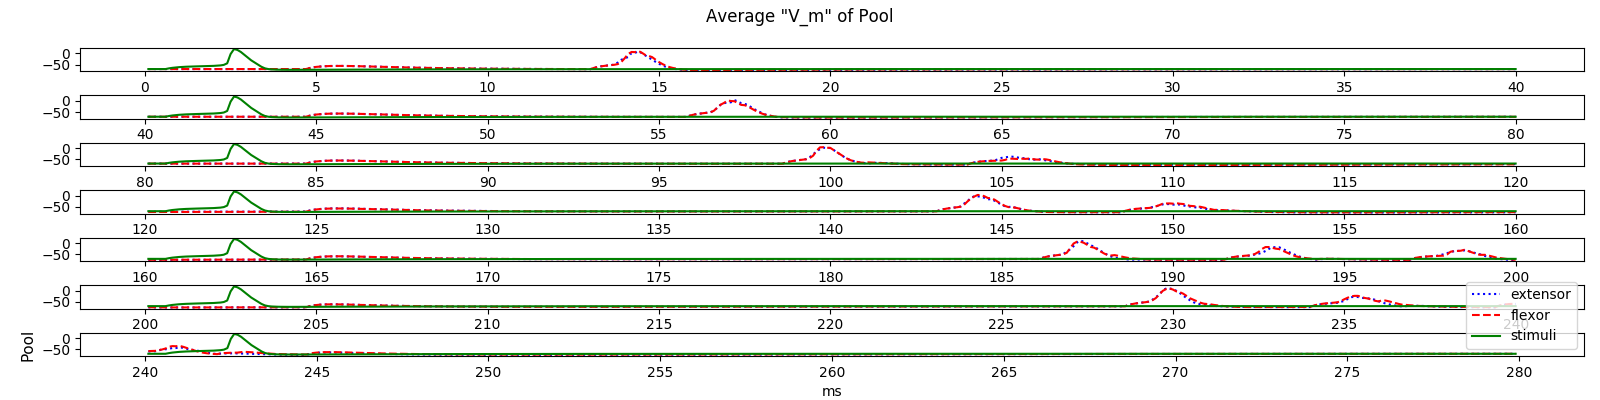
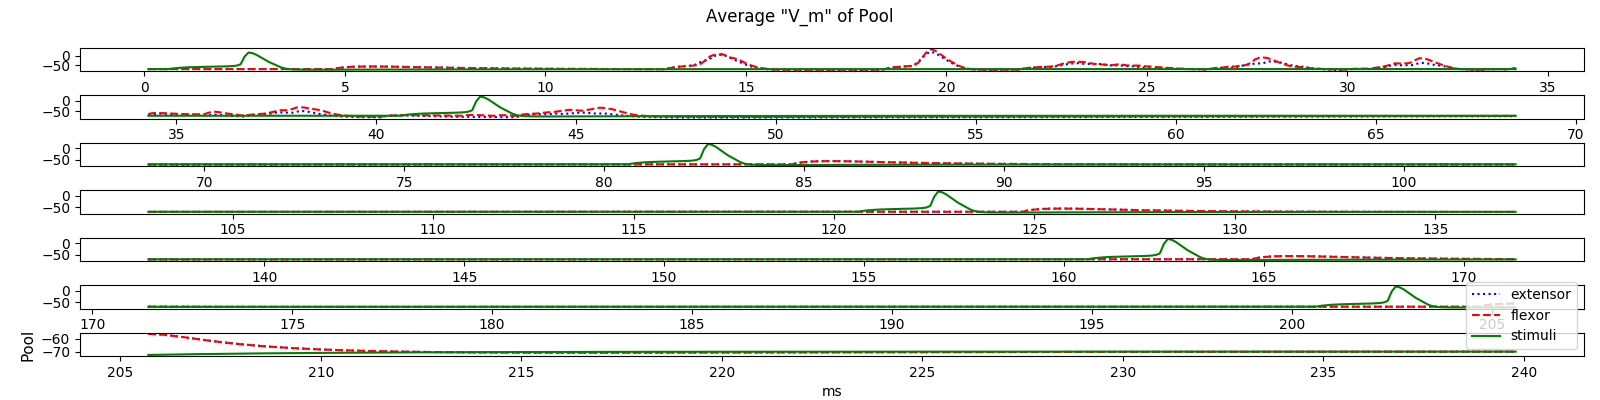
weights moved to weights.py file

diff --git a/spinal_cord/motogroups/motogroup.py b/spinal_cord/motogroups/motogroup.py
@@ -2,6 +2,7 @@ import nest
 from spinal_cord.afferents.afferent_fiber import AfferentFiber
 from spinal_cord.namespace import Muscle
 from spinal_cord.toolkit.multimeter import add_multimeter
+from spinal_cord.weights import Weights
 
 
 class Motogroup:
@@ -53,7 +54,7 @@ class Motogroup:
             syn_spec={
                 'model': 'static_synapse',
                 'delay': self.distr_normal2,
-                'weight': 15.419
+                'weight': Weights.ii_moto.value
             },
             conn_spec={
                 'rule': 'fixed_indegree',
@@ -74,26 +75,41 @@ class Motogroup:
         )
 
     def connect_motogroup(self, motogroup):
-        nest.Connect(
-            pre=self.ia_ids,
-            post=motogroup.ia_ids,
-            syn_spec={
-                'model': 'static_synapse',
-                'delay': self.distr_normal2,
-                'weight': -0.7
-            },
-            conn_spec={
-                'rule': 'fixed_indegree',
-                'indegree': 100
-            }
-        )
+        if motogroup.motoname == 'moto_GM':
+            nest.Connect(
+                pre=self.ia_ids,
+                post=motogroup.ia_ids,
+                syn_spec={
+                    'model': 'static_synapse',
+                    'delay': self.distr_normal2,
+                    'weight': 0
+                },
+                conn_spec={
+                    'rule': 'fixed_indegree',
+                    'indegree': 100
+                }
+            )
+        else:
+            nest.Connect(
+                pre=self.ia_ids,
+                post=motogroup.ia_ids,
+                syn_spec={
+                    'model': 'static_synapse',
+                    'delay': self.distr_normal2,
+                    'weight': Weights.ia_ia.value
+                },
+                conn_spec={
+                    'rule': 'fixed_indegree',
+                    'indegree': 100
+                }
+            )
         nest.Connect(
             pre=self.ia_ids,
             post=motogroup.moto_ids,
             syn_spec={
                 'model': 'static_synapse',
                 'delay': 1.,
-                'weight': -6.9
+                'weight': Weights.ia_moto.value
             }
         )
 
@@ -104,7 +120,7 @@ class Motogroup:
             syn_spec={
                 'model': 'static_synapse',
                 'delay': self.distr_normal2,
-                'weight': 10.5216
+                'weight': Weights.aff_ia_moto.value
             },
             conn_spec={
                 'rule': 'all_to_all',
@@ -116,7 +132,7 @@ class Motogroup:
             syn_spec={
                 'model': 'static_synapse',
                 'delay': self.distr_normal2,
-                'weight': 17.5
+                'weight': Weights.aff_ia_ia.value
             },
             conn_spec={
                 'rule': 'fixed_indegree',
@@ -129,7 +145,7 @@ class Motogroup:
             syn_spec={
                 'model': 'static_synapse',
                 'delay': self.distr_normal2,
-                'weight': 1.75
+                'weight': Weights.aff_ii_ia.value
             },
             conn_spec={
                 'rule': 'fixed_indegree',
@@ -142,7 +158,7 @@ class Motogroup:
             syn_spec={
                 'model': 'static_synapse',
                 'delay': self.distr_normal3,
-                'weight': 1.75
+                'weight': Weights.aff_ii_ii.value
             },
             conn_spec={
                 'rule': 'fixed_indegree',

diff --git a/spinal_cord/polysynaptic_circuit/tier.py b/spinal_cord/polysynaptic_circuit/tier.py
@@ -1,5 +1,6 @@
 import nest
 from spinal_cord.toolkit.multimeter import add_multimeter
+from spinal_cord.weights import Weights
 
 
 class Tier:
@@ -43,7 +44,7 @@ class Tier:
             syn_spec={
                 'model': 'static_synapse',
                 'delay': 0.9,
-                'weight': 100.
+                'weight': Weights.e0e1.value
             },
             conn_spec={
                 'rule': 'one_to_one'
@@ -55,7 +56,7 @@ class Tier:
             syn_spec={
                 'model': 'static_synapse',
                 'delay': 0.9,
-                'weight': 90.
+                'weight': Weights.e1e2.value
             },
             conn_spec={
                 'rule': 'one_to_one'
@@ -67,7 +68,7 @@ class Tier:
             syn_spec={
                 'model': 'static_synapse',
                 'delay': 0.9,
-                'weight': 90.
+                'weight': Weights.e2e1.value
             },
             conn_spec={
                 'rule': 'one_to_one'
@@ -79,7 +80,7 @@ class Tier:
             syn_spec={
                 'model': 'static_synapse',
                 'delay': 0.9,
-                'weight': 100.
+                'weight': Weights.e3e4.value
             },
             conn_spec={
                 'rule': 'one_to_one'
@@ -91,7 +92,7 @@ class Tier:
             syn_spec={
                 'model': 'static_synapse',
                 'delay': 0.9,
-                'weight': 100.
+                'weight': Weights.e4e3.value
             },
             conn_spec={
                 'rule': 'one_to_one'
@@ -103,7 +104,7 @@ class Tier:
             syn_spec={
                 'model': 'static_synapse',
                 'delay': 0.9,
-                'weight': 100.
+                'weight': Weights.e0e3.value
             },
             conn_spec={
                 'rule': 'one_to_one'
@@ -115,7 +116,7 @@ class Tier:
             syn_spec={
                 'model': 'static_synapse',
                 'delay': 0.9,
-                'weight': 100.
+                'weight': Weights.e3i0.value
             },
             conn_spec={
                 'rule': 'one_to_one'
@@ -127,7 +128,7 @@ class Tier:
             syn_spec={
                 'model': 'static_synapse',
                 'delay': 0.9,
-                'weight': -60.
+                'weight': Weights.i0e1.value
             },
             conn_spec={
                 'rule': 'one_to_one'
@@ -139,7 +140,7 @@ class Tier:
             syn_spec={
                 'model': 'static_synapse',
                 'delay': 0.9,
-                'weight': -50.
+                'weight': Weights.i1e1.value
             },
             conn_spec={
                 'rule': 'one_to_one'
@@ -151,7 +152,7 @@ class Tier:
             syn_spec={
                 'model': 'static_synapse',
                 'delay': 0.9,
-                'weight': 100.
+                'weight': Weights.e2i1.value
             },
             conn_spec={
                 'rule': 'one_to_one'

diff --git a/spinal_cord/pool/pool.py b/spinal_cord/pool/pool.py
@@ -3,6 +3,7 @@ from spinal_cord.afferents.afferent_fiber import DummySensoryAfferentFiber
 from spinal_cord.level1 import Level1
 from spinal_cord.toolkit.multimeter import add_multimeter
 from spinal_cord.toolkit.plotter import ResultsPlotter
+from spinal_cord.weights import Weights
 
 
 class Pool:
@@ -160,11 +161,11 @@ class Pool:
             syn_spec={
                 'model': 'static_synapse',
                 'delay': 1.,
-                'weight': 10.
+                'weight': Weights.p_ex_ia.value
             },
             conn_spec={
                 'rule': 'fixed_indegree',
-                'indegree': 10
+                'indegree': 25
             }
         )
         nest.Connect(
@@ -173,11 +174,11 @@ class Pool:
             syn_spec={
                 'model': 'static_synapse',
                 'delay': 1.,
-                'weight': 10.
+                'weight': Weights.p_ex_moto.value
             },
             conn_spec={
                 'rule': 'fixed_indegree',
-                'indegree': 10
+                'indegree': 25
             }
         )
 
@@ -187,11 +188,11 @@ class Pool:
             syn_spec={
                 'model': 'static_synapse',
                 'delay': 1.,
-                'weight': 10,
+                'weight': Weights.p_fl_ia.value,
             },
             conn_spec={
                 'rule': 'fixed_indegree',
-                'indegree': 10
+                'indegree': 25
             }
         )
         nest.Connect(
@@ -200,11 +201,11 @@ class Pool:
             syn_spec={
                 'model': 'static_synapse',
                 'delay': 1.,
-                'weight': 10
+                'weight': Weights.p_fl_moto.value
             },
             conn_spec={
                 'rule': 'fixed_indegree',
-                'indegree': 10
+                'indegree': 25
             }
         )
 

diff --git a/spinal_cord/polysynaptic_circuit/pc.py b/spinal_cord/polysynaptic_circuit/pc.py
@@ -1,6 +1,7 @@
 import nest
 from spinal_cord.polysynaptic_circuit.tier import Tier
 from spinal_cord.pool.pool import Pool
+from spinal_cord.weights import Weights
 
 
 class PolysynapticCircuit:
@@ -17,7 +18,7 @@ class PolysynapticCircuit:
                 syn_spec={
                     'model': 'static_synapse',
                     'delay': 1.,
-                    'weight': 40.
+                    'weight': Weights.e2e2.value
                 },
                 conn_spec={
                     'rule': 'one_to_one'
@@ -29,7 +30,7 @@ class PolysynapticCircuit:
                 syn_spec={
                     'model': 'static_synapse',
                     'delay': 1.,
-                    'weight': 45.
+                    'weight': Weights.e3e0.value
                 },
                 conn_spec={
                     'rule': 'one_to_one'
@@ -41,7 +42,7 @@ class PolysynapticCircuit:
                 syn_spec={
                     'model': 'static_synapse',
                     'delay': 1.,
-                    'weight': 100.
+                    'weight': Weights.e2e2.value
                 },
                 conn_spec={
                     'rule': 'one_to_one'
@@ -57,7 +58,7 @@ class PolysynapticCircuit:
                     syn_spec={
                         'model': 'static_synapse',
                         'delay': 1.,
-                        'weight': 10.
+                        'weight': Weights.e2p.value
                     },
                     conn_spec={
                         'rule': 'fixed_outdegree',

diff --git a/spinal_cord/weights.py b/spinal_cord/weights.py
@@ -1,0 +1,42 @@
+from enum import Enum
+
+
+class Weights(Enum):
+
+    # Tier Interconnections
+    e0e1 = 100.
+    e0e3 = 100.
+    e1e2 = 90.
+    e2e1 = 90.
+    e2i1 = 100.
+    e3e4 = 100.
+    e3i0 = 100.
+    e4e3 = 100.
+    i0e1 = -60.
+    i1e1 = -50.
+
+    # Coonnections between tiers
+
+    e0e0 = 40.
+    e3e0 = 45.
+    e2e2 = 100.
+
+    # Connections to pool
+
+    e2p = 10
+
+    # Motogroup interconnections
+
+    aff_ia_moto = 15.
+    aff_ia_ia = 5.
+    aff_ii_ia = 5.
+    aff_ii_ii = 18.
+    ii_moto = 27.
+    ia_ia = -0.7
+    ia_moto = -6.9
+
+    # Pool to Motogroup
+    p_ex_moto = 55.
+    p_ex_ia = 5.
+    p_fl_moto = 55.
+    p_fl_ia = 5.

diff --git a/spinal_cord/level2.py b/spinal_cord/level2.py
@@ -7,12 +7,13 @@ from spinal_cord.fibers import AfferentFibers
 
 class Level2:
 
-    def __init__(self, level1: Level1, afferents: AfferentFibers):
+    def __init__(self, level1: Level1, afferents: AfferentFibers=None):
         self.pc = PolysynapticCircuit()
         self.pool = Pool()
         self.pc.connect_pool(self.pool)
         self.pool.connect_level1(level1)
-        self.pool.connect_sensory(afferents.dsaf)
+        if afferents:
+            self.pool.connect_sensory(afferents.dsaf)
 
     def plot_pool(self):
         self.pool.plot_results()

diff --git a/spinal_cord/afferents/afferent_fiber.py b/spinal_cord/afferents/afferent_fiber.py
@@ -35,7 +35,7 @@ class AfferentFiber:
             syn_spec={
                 'model': 'static_synapse',
                 'delay': .1,
-                'weight': 100.
+                'weight': 0.
             },
             conn_spec={
                 'rule': 'one_to_one'

diff --git a/spinal_cord/run.py b/spinal_cord/run.py
@@ -17,7 +17,7 @@ level1 = Level1()
 level1.connect_afferents(afferents)
 level2 = Level2(level1, afferents)
 
-nest.Simulate(720.)
+nest.Simulate(240.)
 
 level1.plot_motogroups()
 level2.plot_pool()
